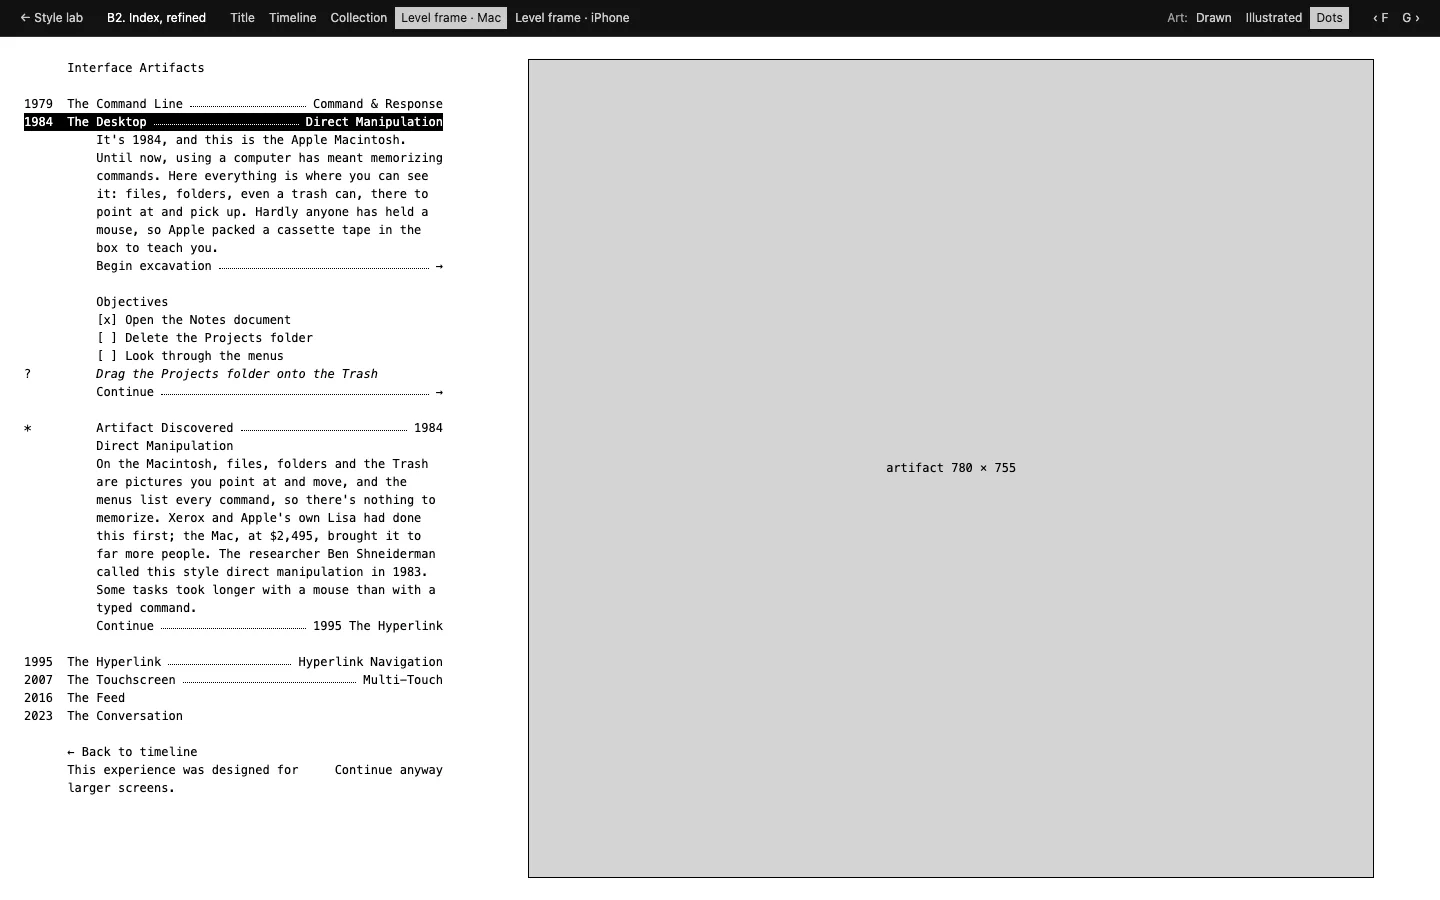
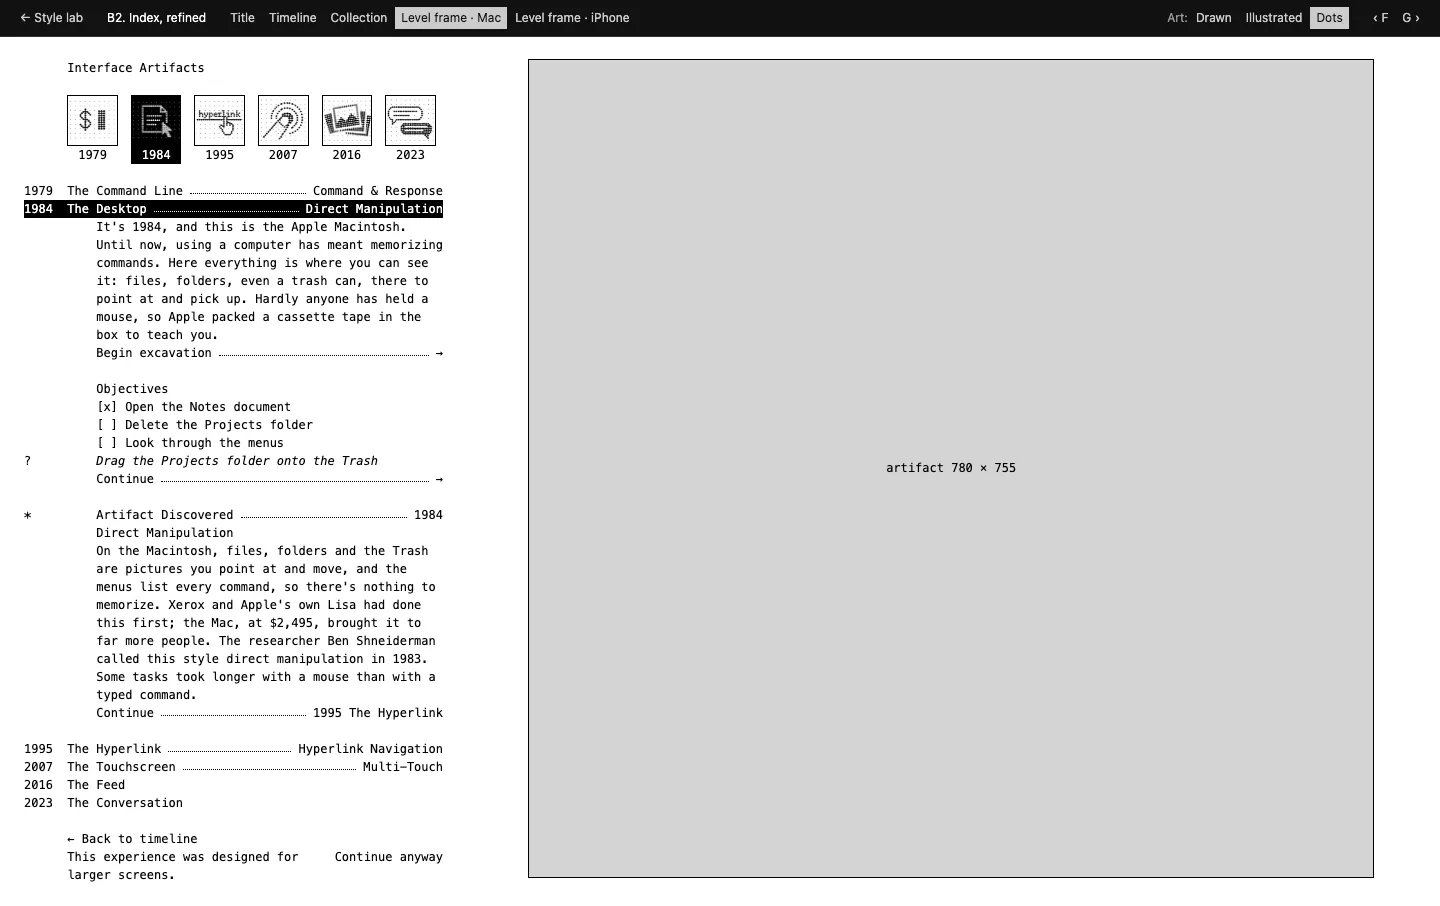
Style lab B2: six little squares with the rooms' dot illustrations open the levels, and mark the room you are in
A square and its room's line light together, and either brings up the
larger picture beside the list.

diff --git a/src/pages/styleLab/B2_Index.jsx b/src/pages/styleLab/B2_Index.jsx
@@ -19,7 +19,7 @@ import { ROOMS, TITLE, ABOUT, WORDS, MOCK, isFound, foundLine, pad } from './con
 import { RoomPicture } from './CurrentCard'
 
 // One line of the list: [mark or year] text ......... meta
-function Row({ mark = '', text, meta, href, onClick, current, sub, external, peek }) {
+function Row({ mark = '', text, meta, href, onClick, current, lit, sub, external, peek }) {
   const inner = (
     <>
       <span className={s.mark}>{mark}</span>
@@ -28,7 +28,8 @@ function Row({ mark = '', text, meta, href, onClick, current, sub, external, pee
       <span className={s.meta}>{meta}</span>
     </>
   )
-  const cls = `${s.row} ${sub ? s.sub : ''} ${current ? s.current : ''}`
+  // `lit`: black like the current row, because its room's square is pointed at
+  const cls = `${s.row} ${sub ? s.sub : ''} ${current || lit ? s.current : ''}`
   if (href) {
     return (
       <a className={cls} href={href} onClick={onClick} aria-current={current ? 'page' : undefined} {...peek} {...(external ? { target: '_blank', rel: 'noopener noreferrer' } : {})}>
@@ -76,7 +77,32 @@ function Card({ room, art, href }) {
   )
 }
 
-function Level({ room, href }) {
+// Six little squares, one a room, each with the room's picture and its year
+// under it: another way in, and in a room they are the HUD's progress dots
+// (the room you are in is the black one). They turn black under the pointer
+// like a row, and bring up the larger picture where there is room for it;
+// a square and its room's line light together.
+function Squares({ href, art, current, peek, peekAt }) {
+  return (
+    <div className={s.squares}>
+      {ROOMS.map(r => (
+        <a
+          key={r.level}
+          className={`${s.square} ${current === r.level || peek === r.level ? s.squareNow : ''}`}
+          href={href('level', r.level)}
+          aria-label={`${r.year} ${r.title}`}
+          aria-current={current === r.level ? 'page' : undefined}
+          {...peekAt?.(r.level)}
+        >
+          <span className={s.squareBox}><RoomPicture room={r} art={art} className={s.fill} /></span>
+          <span className={s.squareYear}>{r.year}</span>
+        </a>
+      ))}
+    </div>
+  )
+}
+
+function Level({ room, href, art }) {
   // 'all' is the mock's usual state, every piece at once; the other two are
   // the list as it would be while playing and after Continue
   const [phase, setPhase] = useState('all')
@@ -88,7 +114,7 @@ function Level({ room, href }) {
     <div className={`${s.page} ${s.levelPage}`}>
       <div className={s.list}>
         <Row text={TITLE.name} href={href('title')} />
-        <div className={s.gap} />
+        <Squares href={href} art={art} current={room.level} />
         {ROOMS.map(r => {
           const open = r.level === room.level
           return (
@@ -147,7 +173,7 @@ export default function Index2({ screen, level, href, art }) {
     onFocus: () => setPeek(n),
     onBlur: () => setPeek(p => (p === n ? null : p)),
   })
-  if (screen === 'level') return <Level room={ROOMS[level]} href={href} />
+  if (screen === 'level') return <Level room={ROOMS[level]} href={href} art={art} />
 
   return (
     <div className={`${s.page} ${screen === 'collection' ? s.collectionPage : s.listPage}`}>
@@ -162,11 +188,11 @@ export default function Index2({ screen, level, href, art }) {
           </>
         )}
 
-        {/* ── The six rooms ─────────────────────────────────────── */}
-        <div className={s.gap} />
+        {/* ── The six rooms: as squares, then as lines ──────────── */}
+        <Squares href={href} art={art} peek={peek} peekAt={peekAt} />
         {ROOMS.map(r => (
           <div key={r.level}>
-            <Row mark={r.year} text={r.title} meta={isFound(r.level) ? r.name : ''} href={href('level', r.level)} peek={peekAt(r.level)} />
+            <Row mark={r.year} text={r.title} meta={isFound(r.level) ? r.name : ''} href={href('level', r.level)} peek={peekAt(r.level)} lit={peek === r.level} />
             {screen === 'timeline' && r.objectives.map(o => (
               <Row key={o} sub text={`${isFound(r.level) ? '[x]' : '[ ]'} ${o}`} href={href('level', r.level)} peek={peekAt(r.level)} />
             ))}

diff --git a/src/pages/styleLab/B2_Index.module.css b/src/pages/styleLab/B2_Index.module.css
@@ -55,6 +55,24 @@ a.row:focus-visible, button.row:focus-visible { background: #000; color: #fff; }
 .note { grid-template-columns: 6ch minmax(0, 1fr); }
 .noteText { max-width: 68ch; margin: 0; }
 
+/* ── The rooms as little squares ────────────────────────────────────── */
+.squares {
+  display: flex;
+  flex-wrap: wrap;
+  gap: 0 2ch;
+  /* a line of space above, and in step with the list's text column */
+  margin: 18px 0 18px 6ch;
+}
+.square { display: block; width: 10ch; color: #000; text-decoration: none; }
+/* six across in the narrower columns beside the cards and the artifact */
+.collectionPage .square, .levelPage .square { width: 7ch; }
+.collectionPage .squares, .levelPage .squares { gap: 0 1.8ch; }
+.squareBox { display: block; position: relative; aspect-ratio: 1; border: 1px solid #000; background: #fff; overflow: hidden; }
+.squareYear { display: block; text-align: center; }
+.square:hover .squareBox, .square:focus-visible .squareBox, .squareNow .squareBox { background: #000; color: #fff; }
+.square:hover .squareYear, .square:focus-visible .squareYear, .squareNow .squareYear { background: #000; color: #fff; }
+.square:focus-visible { outline: 2px solid #000; outline-offset: 2px; }
+
 /* ── Title and timeline: the list, and a place beside it for a picture ── */
 .listPage { grid-template-columns: minmax(0, 82ch) minmax(0, 1fr); }
 .peek { position: sticky; top: 22px; min-width: 0; }
@@ -141,4 +159,8 @@ a.row:focus-visible, button.row:focus-visible { background: #000; color: #fff; }
   .lead { display: none; }
   .meta { margin-left: auto; padding-left: 2ch; }
   .sub .text, .sub .noteText { padding-left: 2ch; }
+  /* three to a line, larger */
+  .squares { margin-left: 5ch; gap: 9px 2ch; }
+  .square, .collectionPage .square, .levelPage .square { width: calc((100% - 4ch) / 3); }
+  .collectionPage .squares, .levelPage .squares { gap: 9px 2ch; }
 }

diff --git a/src/test/StyleLab.test.jsx b/src/test/StyleLab.test.jsx
@@ -71,13 +71,28 @@ describe('Style lab', () => {
   it('B2: pointing at a room, or focusing it, shows its picture and year beside the list', () => {
     renderLab('#b2/timeline')
     expect(document.querySelector('[data-peek]')).toBeNull()
-    const row = document.querySelector('a[href="#b2/level/2"]')
+    const row = document.querySelector('a[href="#b2/level/2"]:not([aria-label])')
     fireEvent.mouseEnter(row)
     expect(document.querySelector('[data-peek="2"]').textContent).toBe(ROOMS[2].year)
     fireEvent.mouseLeave(row)
     expect(document.querySelector('[data-peek]')).toBeNull()
-    fireEvent.focus(document.querySelector('a[href="#b2/level/4"]'))
+    fireEvent.focus(document.querySelector('a[href="#b2/level/4"]:not([aria-label])'))
     expect(document.querySelector('[data-peek="4"]')).not.toBeNull()
+  })
+
+  it('B2: six little squares open the rooms, and in a room the one you are in is marked', () => {
+    renderLab('#b2/title')
+    const squares = () => ROOMS.map(r => screen.getByRole('link', { name: `${r.year} ${r.title}` }))
+    squares().forEach((sq, i) => {
+      expect(sq).toHaveAttribute('href', `#b2/level/${i}`)
+      expect(sq.textContent).toBe(ROOMS[i].year)
+    })
+    // a square brings up the picture too
+    fireEvent.mouseEnter(squares()[5])
+    expect(document.querySelector('[data-peek="5"]')).not.toBeNull()
+    cleanup()
+    renderLab('#b2/level/3')
+    expect(squares().map(sq => sq.getAttribute('aria-current'))).toEqual([null, null, null, 'page', null, null])
   })
 
   it('B2: Begin excavation leaves the list as it is while playing, Continue shows the discovery', () => {
